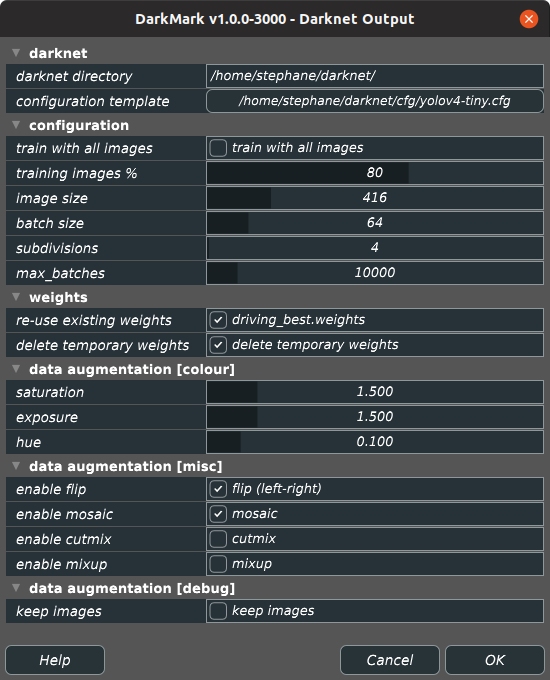
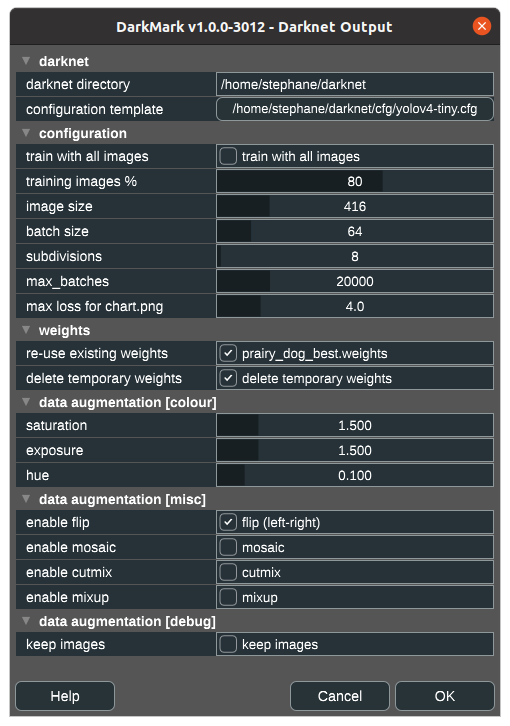
added a slider to select the maximum loss displayed on chart.png

diff --git a/src-darknet/DarknetWnd.cpp b/src-darknet/DarknetWnd.cpp
@@ -79,6 +79,7 @@ dm::DarknetWnd::DarknetWnd(dm::DMContent & c) :
 	v_batch_size					= info.batch_size;
 	v_subdivisions					= info.subdivisions;
 	v_iterations					= info.iterations;
+	v_max_chart_loss				= info.max_chart_loss;
 	v_restart_training				= info.restart_training;
 	v_delete_temp_weights			= info.delete_temp_weights;
 	v_saturation					= info.saturation;
@@ -138,6 +139,10 @@ dm::DarknetWnd::DarknetWnd(dm::DMContent & c) :
 
 	s = new SliderPropertyComponent(v_iterations, "max_batches", 1000.0, 100000.0, 1.0);
 	s->setTooltip("The total number of iterations to run. As a general rule of thumb, at the very least this should be 2000x more than the number of classes defined.");
+	properties.add(s);
+
+	s = new SliderPropertyComponent(v_max_chart_loss, "max loss for chart.png", 1.0, 20.0, 0.1);
+	s->setTooltip("The maximum amount of loss to display on the output image \"chart.png\". This sets the maximum value to use for the Y-axis, and is for display purposes only; it has zero impact on how the neural network is trained.");
 	properties.add(s);
 
 	pp.addSection("configuration", properties);
@@ -348,6 +353,7 @@ void dm::DarknetWnd::buttonClicked(Button * button)
 	cfg().setValue(content.cfg_prefix + "darknet_batch_size"			, v_batch_size					);
 	cfg().setValue(content.cfg_prefix + "darknet_subdivisions"			, v_subdivisions				);
 	cfg().setValue(content.cfg_prefix + "darknet_iterations"			, v_iterations					);
+	cfg().setValue(content.cfg_prefix + "darknet_max_chart_loss"		, v_max_chart_loss				);
 	cfg().setValue(content.cfg_prefix + "darknet_restart_training"		, v_restart_training			);
 	cfg().setValue(content.cfg_prefix + "darknet_delete_temp_weights"	, v_delete_temp_weights			);
 	cfg().setValue(content.cfg_prefix + "darknet_saturation"			, v_saturation					);
@@ -367,6 +373,7 @@ void dm::DarknetWnd::buttonClicked(Button * button)
 	info.batch_size					= v_batch_size				.getValue();
 	info.subdivisions				= v_subdivisions			.getValue();
 	info.iterations					= v_iterations				.getValue();
+	info.max_chart_loss				= v_max_chart_loss			.getValue();
 	info.restart_training			= v_restart_training		.getValue();
 	info.delete_temp_weights		= v_delete_temp_weights		.getValue();
 	info.saturation					= v_saturation				.getValue();
@@ -428,6 +435,7 @@ void dm::DarknetWnd::create_YOLO_configuration_files()
 	const bool enable_cutmix			= info.enable_cutmix;
 	const bool enable_mixup				= info.enable_mixup;
 	const bool enable_flip				= info.enable_flip;
+	const float max_chart_loss			= info.max_chart_loss;
 	const float saturation				= info.saturation;
 	const float exposure				= info.exposure;
 	const float hue						= info.hue;
@@ -448,6 +456,7 @@ void dm::DarknetWnd::create_YOLO_configuration_files()
 		"sed --in-place \"/^hue *=/ a\\mosaic="					+ std::string(enable_mosaic ? "1" : "0")				+ "\" "		+ info.cfg_filename,
 		"sed --in-place \"/^hue *=/ a\\cutmix="					+ std::string(enable_cutmix ? "1" : "0")				+ "\" "		+ info.cfg_filename,
 		"sed --in-place \"/^hue *=/ a\\mixup="					+ std::string(enable_mixup ? "1" : "0")					+ "\" "		+ info.cfg_filename,
+		"sed --in-place \"/^hue *=/ a\\max_chart_loss="			+ std::to_string(max_chart_loss)						+ "\" "		+ info.cfg_filename,
 		"sed --in-place \"/^saturation *=/ c\\saturation="		+ std::to_string(saturation)							+ "\" "		+ info.cfg_filename,
 		"sed --in-place \"/^exposure *=/ c\\exposure="			+ std::to_string(exposure)								+ "\" "		+ info.cfg_filename,
 		"sed --in-place \"/^classes *=/ c\\classes="			+ std::to_string(content.names.size() - 1)				+ "\" "		+ info.cfg_filename,

diff --git a/src-tools/ProjectInfo.cpp b/src-tools/ProjectInfo.cpp
@@ -19,11 +19,12 @@ dm::ProjectInfo::ProjectInfo(const std::string & prefix)
 	batch_size					= cfg().get_int		(cfg_prefix + "darknet_batch_size"				, 64	);
 	subdivisions				= cfg().get_int		(cfg_prefix + "darknet_subdivisions"			, 8		);
 	iterations					= cfg().get_int		(cfg_prefix + "darknet_iterations"				, 4000	);
+	max_chart_loss				= cfg().get_double	(cfg_prefix + "darknet_max_chart_loss"			, 4.0	);
 	restart_training			= cfg().get_bool	(cfg_prefix + "darknet_restart_training"		, false	);
 	delete_temp_weights			= cfg().get_bool	(cfg_prefix + "darknet_delete_temp_weights"		, true	);
-	saturation					= cfg().get_double	(cfg_prefix + "darknet_saturation"				, 1.50f	);
-	exposure					= cfg().get_double	(cfg_prefix + "darknet_exposure"				, 1.50f	);
-	hue							= cfg().get_double	(cfg_prefix + "darknet_hue"						, 0.10f	);
+	saturation					= cfg().get_double	(cfg_prefix + "darknet_saturation"				, 1.50	);
+	exposure					= cfg().get_double	(cfg_prefix + "darknet_exposure"				, 1.50	);
+	hue							= cfg().get_double	(cfg_prefix + "darknet_hue"						, 0.10	);
 	enable_flip					= cfg().get_bool	(cfg_prefix + "darknet_enable_flip"				, true	);
 	angle						= cfg().get_int		(cfg_prefix + "darknet_angle"					, 0		);
 	enable_mosaic				= cfg().get_bool	(cfg_prefix + "darknet_mosaic"					, true	);

diff --git a/src-tools/ProjectInfo.hpp b/src-tools/ProjectInfo.hpp
@@ -32,6 +32,7 @@ namespace dm
 			int			batch_size;					///< e.g., @p 64
 			int			subdivisions;				///< e.g., @p 8
 			int			iterations;					///< number of iterations; e.g., @p 20,000
+			float		max_chart_loss;				///< maximum loss (Y-axis) to use when drawing chart.png
 			bool		restart_training;			///< whether training should use the previous *_best.weights file or start new
 			bool		delete_temp_weights;		///< whether the temporary .weights files should be deleted once training has finished
 			float		saturation;

diff --git a/src-darknet/DarknetWnd.hpp b/src-darknet/DarknetWnd.hpp
@@ -37,6 +37,7 @@ namespace dm
 			Value v_batch_size;
 			Value v_subdivisions;
 			Value v_iterations;
+			Value v_max_chart_loss;
 			Value v_restart_training;
 			Value v_delete_temp_weights;
 			Value v_saturation;
